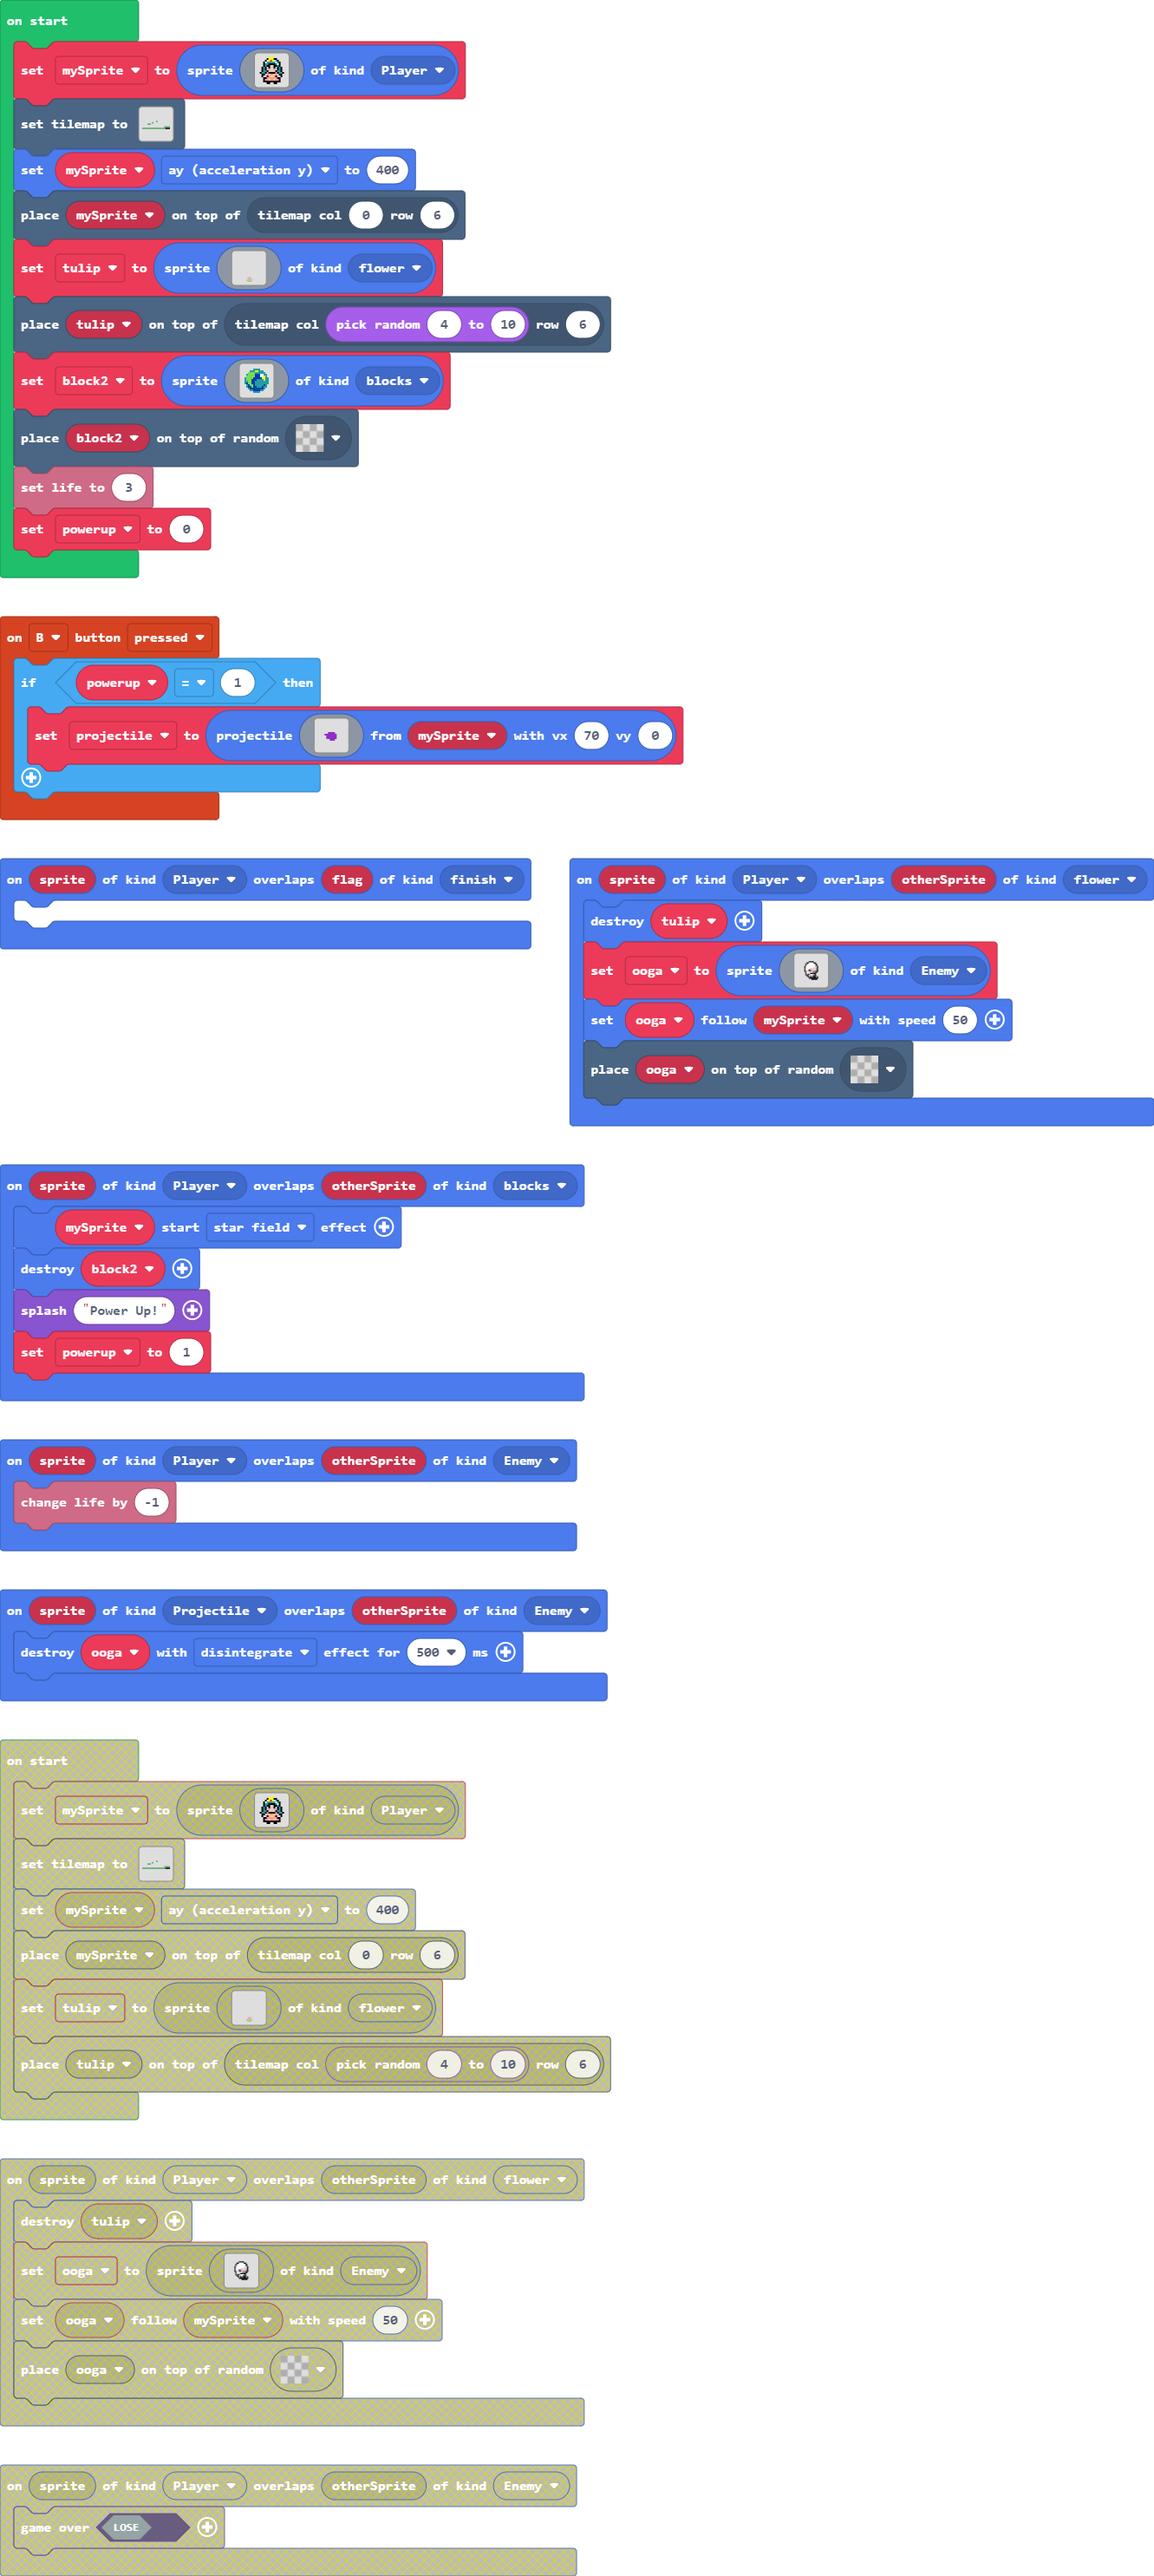
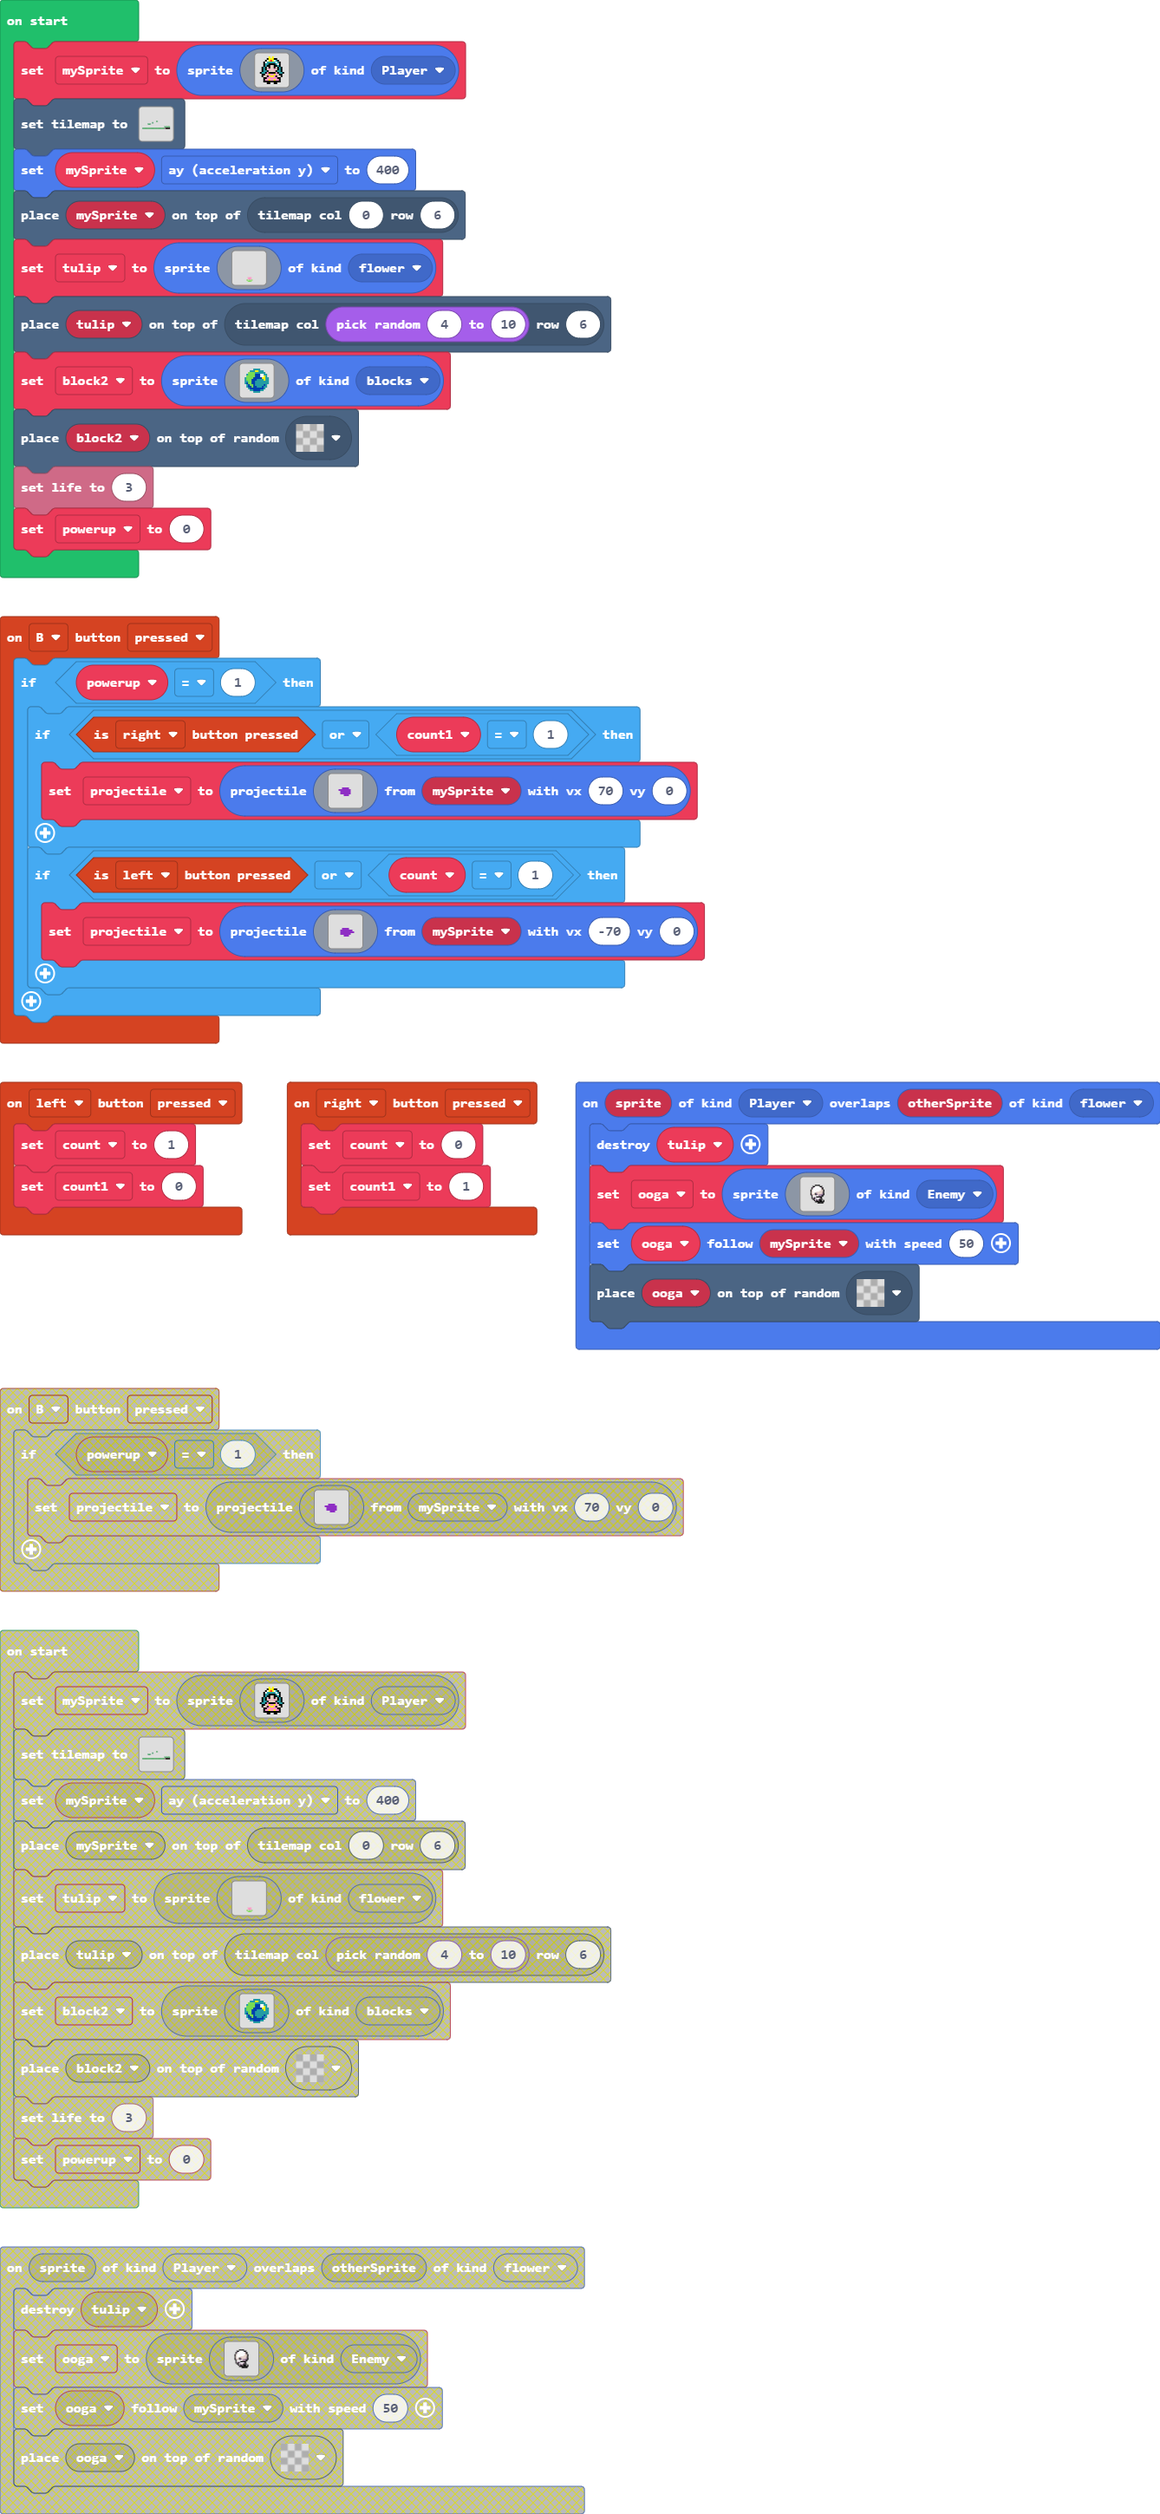
Update main.blocks, main.ts, tilemap.g.jres, tilemap.g.ts

diff --git a/main.ts b/main.ts
@@ -9,35 +9,62 @@ controller.up.onEvent(ControllerButtonEvent.Pressed, function () {
         mySprite.vy = -200
     }
 })
-sprites.onOverlap(SpriteKind.Player, SpriteKind.finish, function (sprite, flag) {
-	
-})
 controller.B.onEvent(ControllerButtonEvent.Pressed, function () {
     if (powerup == 1) {
-        projectile = sprites.createProjectileFromSprite(img`
-            . . . . . . . . . . . . . . . . 
-            . . . . . . . . . . . . . . . . 
-            . . . . . . . . . . . . . . . . 
-            . . . . . . . . . . . . . . . . 
-            . . . . . . . . . . . . . . . . 
-            . . . . . . . . . . . . . . . . 
-            . . . . . . a a a a . . . . . . 
-            . . . . a a a a a a a . . . . . 
-            . . . . . a a a a a a . . . . . 
-            . . . . . a a a a a a . . . . . 
-            . . . . . . . a a a . . . . . . 
-            . . . . . . . . . . . . . . . . 
-            . . . . . . . . . . . . . . . . 
-            . . . . . . . . . . . . . . . . 
-            . . . . . . . . . . . . . . . . 
-            . . . . . . . . . . . . . . . . 
-            `, mySprite, 70, 0)
+        if (controller.right.isPressed() || count1 == 1) {
+            projectile = sprites.createProjectileFromSprite(img`
+                . . . . . . . . . . . . . . . . 
+                . . . . . . . . . . . . . . . . 
+                . . . . . . . . . . . . . . . . 
+                . . . . . . . . . . . . . . . . 
+                . . . . . . . . . . . . . . . . 
+                . . . . . . . . . . . . . . . . 
+                . . . . . . a a a a . . . . . . 
+                . . . . a a a a a a a . . . . . 
+                . . . . . a a a a a a . . . . . 
+                . . . . . a a a a a a . . . . . 
+                . . . . . . . a a a . . . . . . 
+                . . . . . . . . . . . . . . . . 
+                . . . . . . . . . . . . . . . . 
+                . . . . . . . . . . . . . . . . 
+                . . . . . . . . . . . . . . . . 
+                . . . . . . . . . . . . . . . . 
+                `, mySprite, 70, 0)
+        }
+        if (controller.left.isPressed() || count == 1) {
+            projectile = sprites.createProjectileFromSprite(img`
+                . . . . . . . . . . . . . . . . 
+                . . . . . . . . . . . . . . . . 
+                . . . . . . . . . . . . . . . . 
+                . . . . . . . . . . . . . . . . 
+                . . . . . . . . . . . . . . . . 
+                . . . . . . . . . . . . . . . . 
+                . . . . . . a a a a . . . . . . 
+                . . . . . a a a a a a a . . . . 
+                . . . . . a a a a a a a a . . . 
+                . . . . . a a a a a a . . . . . 
+                . . . . . . . a a a . . . . . . 
+                . . . . . . . . . . . . . . . . 
+                . . . . . . . . . . . . . . . . 
+                . . . . . . . . . . . . . . . . 
+                . . . . . . . . . . . . . . . . 
+                . . . . . . . . . . . . . . . . 
+                `, mySprite, -70, 0)
+        }
     }
 })
 controller.A.onEvent(ControllerButtonEvent.Pressed, function () {
     if (mySprite.isHittingTile(CollisionDirection.Bottom)) {
         mySprite.vy = -200
     }
+})
+controller.left.onEvent(ControllerButtonEvent.Pressed, function () {
+    count = 1
+    count1 = 0
+})
+controller.right.onEvent(ControllerButtonEvent.Pressed, function () {
+    count = 0
+    count1 = 1
 })
 sprites.onOverlap(SpriteKind.Player, SpriteKind.flower, function (sprite, otherSprite) {
     tulip.destroy()
@@ -70,9 +97,12 @@ sprites.onOverlap(SpriteKind.Player, SpriteKind.flower, function (sprite, otherS
     ooga.follow(mySprite, 50)
     tiles.placeOnRandomTile(ooga, assets.tile`transparency16`)
 })
+sprites.onOverlap(SpriteKind.Player, SpriteKind.finish, function (sprite, flag) {
+	
+})
 sprites.onOverlap(SpriteKind.Player, SpriteKind.blocks, function (sprite, otherSprite) {
     mySprite.startEffect(effects.starField)
-    block.destroy()
+    block2.destroy()
     game.splash("Power Up!")
     powerup = 1
 })
@@ -83,9 +113,11 @@ sprites.onOverlap(SpriteKind.Player, SpriteKind.Enemy, function (sprite, otherSp
     info.changeLifeBy(-1)
 })
 let ooga: Sprite = null
+let count = 0
 let projectile: Sprite = null
+let count1 = 0
 let powerup = 0
-let block: Sprite = null
+let block2: Sprite = null
 let tulip: Sprite = null
 let mySprite: Sprite = null
 mySprite = sprites.create(img`
@@ -136,7 +168,7 @@ tulip = sprites.create(img`
     ...........777..........
     `, SpriteKind.flower)
 tiles.placeOnTile(tulip, tiles.getTileLocation(randint(4, 10), 6))
-block = sprites.create(img`
+block2 = sprites.create(img`
     . . . . . . . . . . . . . . . . 
     . . . . . . 6 6 6 6 . . . . . . 
     . . . . 6 6 6 5 5 6 6 6 . . . . 
@@ -154,7 +186,7 @@ block = sprites.create(img`
     . . . . . . 6 6 6 6 . . . . . . 
     . . . . . . . . . . . . . . . . 
     `, SpriteKind.blocks)
-tiles.placeOnRandomTile(block, assets.tile`transparency16`)
+tiles.placeOnRandomTile(block2, assets.tile`transparency16`)
 info.setLife(3)
 powerup = 0
 game.onUpdate(function () {

diff --git a/tilemap.g.ts b/tilemap.g.ts
@@ -54,6 +54,25 @@ namespace myTiles {
 . . . . . . . . . . . . . . . . 2 2 2 2 
 2 2 2 2 2 2 2 2 2 2 2 2 2 2 2 2 2 2 2 2 
 `, [myTiles.transparency16,sprites.builtin.forestTiles2,sprites.builtin.forestTiles1,sprites.builtin.forestTiles3,sprites.builtin.forestTiles4,sprites.builtin.forestTiles6,sprites.builtin.forestTiles8], TileScale.Sixteen);
+            case "level4":
+            case "level4":return tiles.createTilemap(hex`1000100000000000000000000000000000000000000000000000000000000000000000000000000000000000000000000000000000000000000000000000000000000000000000000000000000000000000000000000000000000000000000000000000000000000000000000000000000000000000000000000000000000000000000000000000000000000000000000000000000000000000000000000000000000000000000000000000000000000000000000000000000000000000000000000000000000000000000000000000000000000000000000000000000000000000000000000000000000000000000000000000000000000000000000000000000000000`, img`
+. . . . . . . . . . . . . . . . 
+. . . . . . . . . . . . . . . . 
+. . . . . . . . . . . . . . . . 
+. . . . . . . . . . . . . . . . 
+. . . . . . . . . . . . . . . . 
+. . . . . . . . . . . . . . . . 
+. . . . . . . . . . . . . . . . 
+. . . . . . . . . . . . . . . . 
+. . . . . . . . . . . . . . . . 
+. . . . . . . . . . . . . . . . 
+. . . . . . . . . . . . . . . . 
+. . . . . . . . . . . . . . . . 
+. . . . . . . . . . . . . . . . 
+. . . . . . . . . . . . . . . . 
+. . . . . . . . . . . . . . . . 
+. . . . . . . . . . . . . . . . 
+`, [myTiles.transparency16], TileScale.Sixteen);
         }
         return null;
     })
